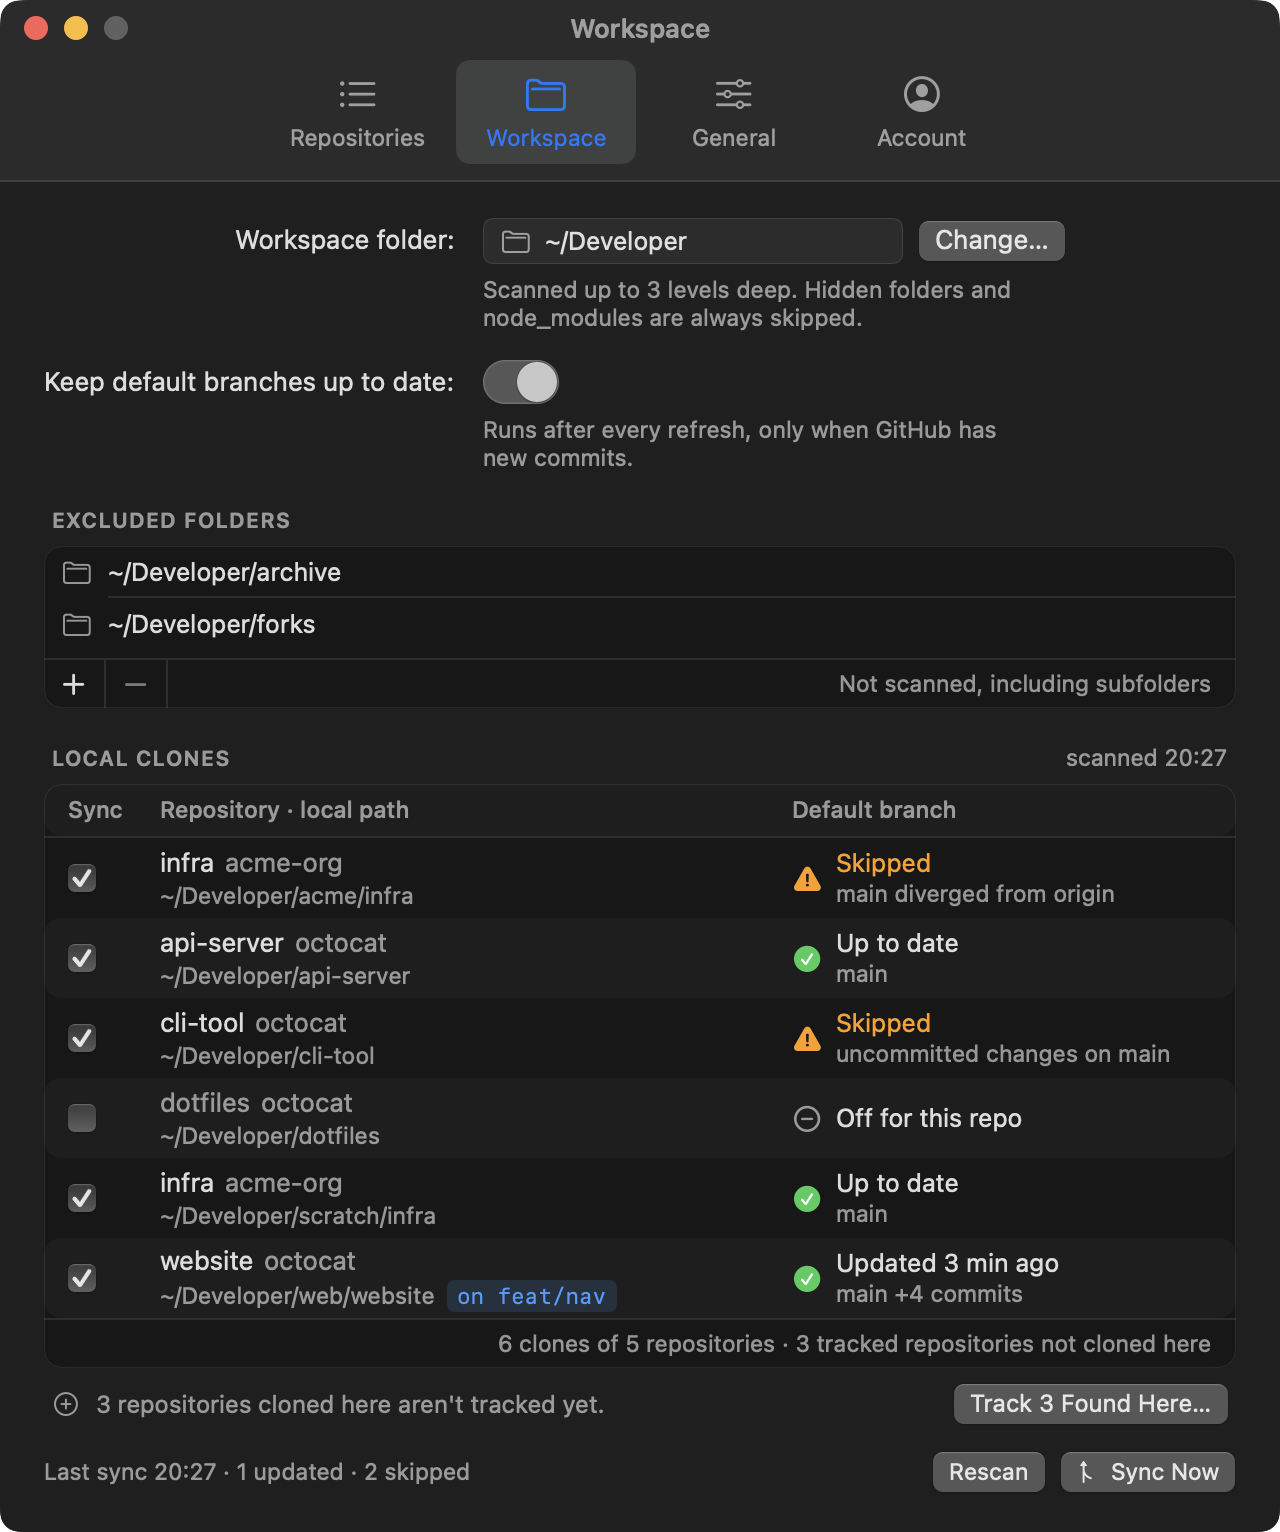
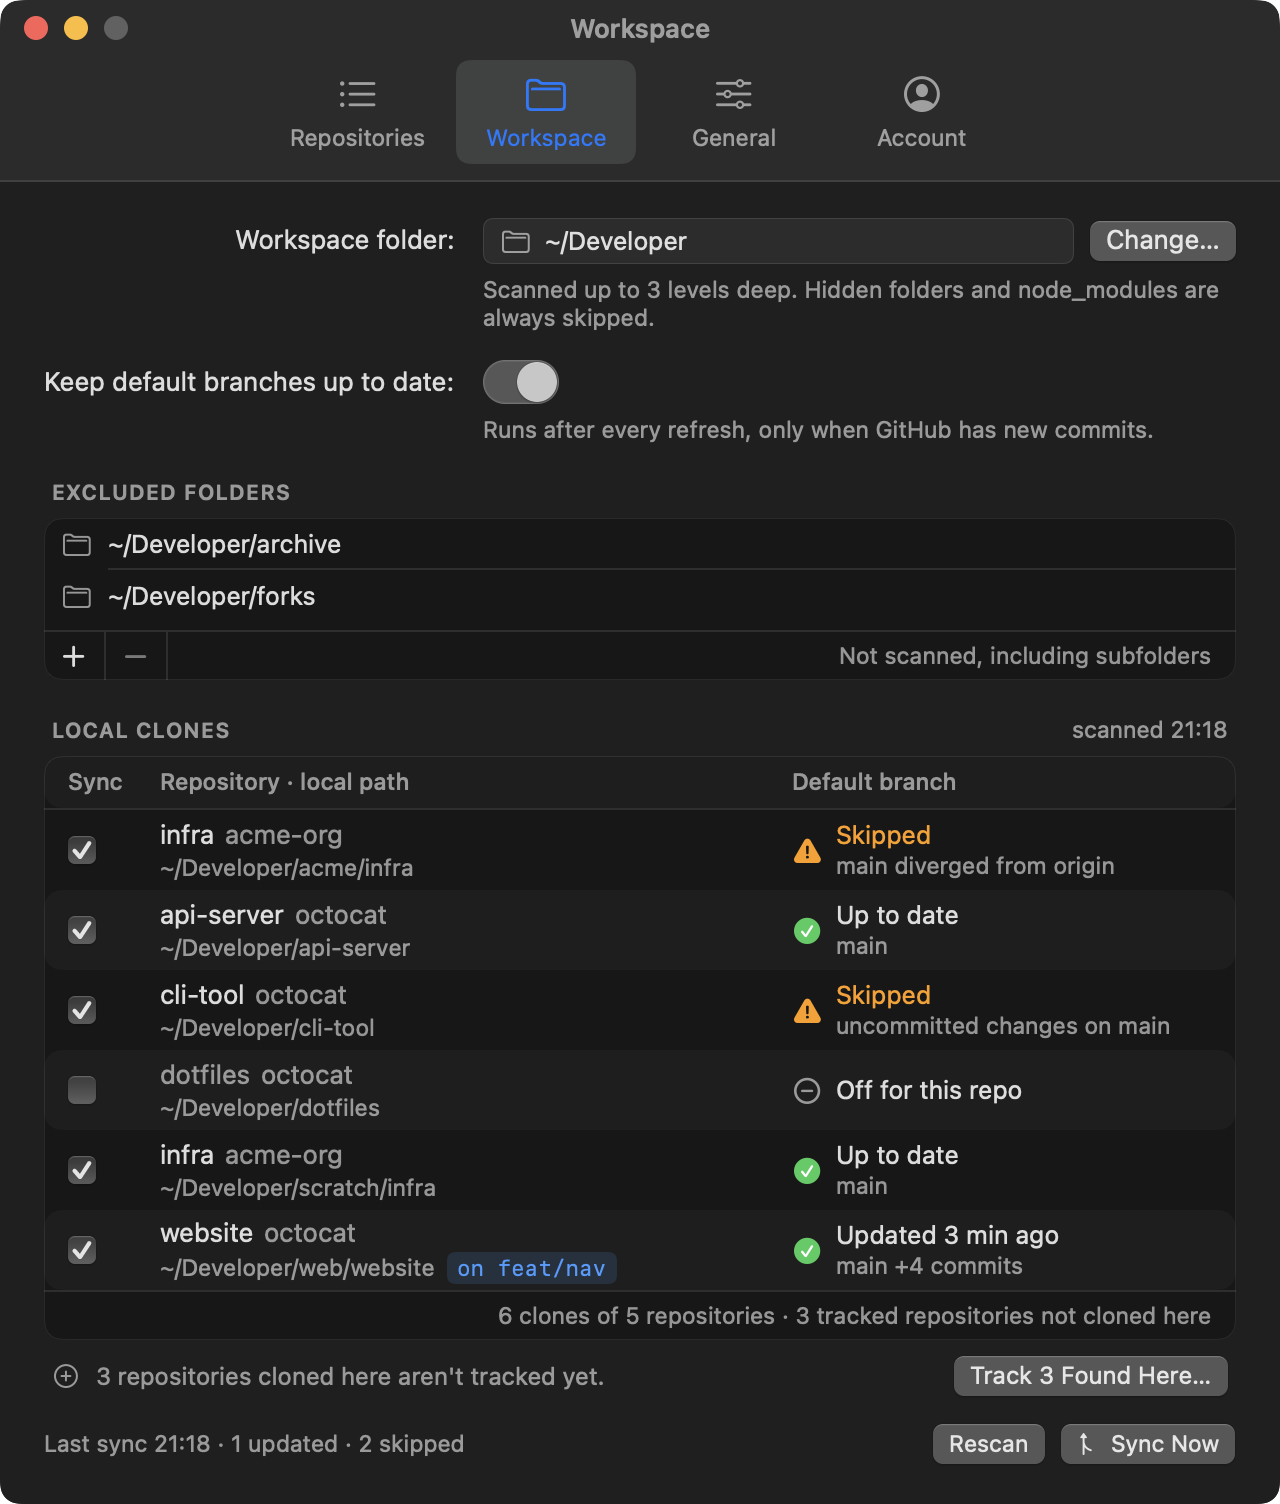
Keep Settings pickers from collapsing and hide the menu bar dot for queued runs
- Settings pop-ups get their width from AppKit (SettingsPicker) instead of
  fixedSize(), which sometimes measured them before they had items and left
  them collapsed to their arrows
- Settings forms use FormRow: the caption shares the control's cell, so rows
  no longer get uneven gaps and captions use the full column width
- The menu bar dot shows only while a workflow runs, not when runs are only
  queued
- Docs and screenshots updated

diff --git a/Sources/ShipwatchUI/SettingsView.swift b/Sources/ShipwatchUI/SettingsView.swift
@@ -1,3 +1,4 @@
+import AppKit
 import ShipwatchCore
 import SwiftUI
 
@@ -88,20 +89,84 @@ extension View {
     }
 }
 
-/// Trailing-aligned label in the first column of a Settings form grid.
-func formLabel(_ text: String) -> some View {
-    Text(text)
-        .gridColumnAlignment(.trailing)
+/// One row of a Settings form `Grid`: a trailing label, then the control with any `FormCaption` under it.
+///
+/// Captions share the control's cell, which fills the second column, so the grid measures each row at the width it
+/// draws it. As separate rows they were measured narrower than drawn and left uneven gaps.
+struct FormRow<Content: View>: View {
+    let label: String
+    var dimmed: Bool
+    let content: Content
+
+    init(_ label: String, dimmed: Bool = false, @ViewBuilder content: () -> Content) {
+        self.label = label
+        self.dimmed = dimmed
+        self.content = content()
+    }
+
+    var body: some View {
+        GridRow {
+            Text(label)
+                .foregroundStyle(dimmed ? .tertiary : .primary)
+                .fixedSize()
+                .gridColumnAlignment(.trailing)
+            VStack(alignment: .leading, spacing: 6) { content }
+                .frame(maxWidth: .infinity, alignment: .leading)
+        }
+    }
 }
 
-/// Small explanatory line under a Settings form row, in the second column.
-func formCaption(_ text: String, color: Color = .secondary) -> some View {
-    GridRow {
-        Color.clear.gridCellUnsizedAxes([.horizontal, .vertical])
+/// Small explanatory text under a control in a `FormRow`.
+struct FormCaption: View {
+    let text: String
+    var color: Color = .secondary
+
+    init(_ text: String, color: Color = .secondary) {
+        self.text = text
+        self.color = color
+    }
+
+    var body: some View {
         Text(text)
             .font(.system(size: 11.5))
             .foregroundStyle(color)
             .fixedSize(horizontal: false, vertical: true)
+    }
+}
+
+/// A Settings pop-up menu as wide as its longest option.
+///
+/// AppKit measures the width up front. With `fixedSize()`, SwiftUI sometimes measured the pop-up before it had any
+/// items and kept it collapsed to its arrows.
+struct SettingsPicker<Value: Hashable>: View {
+    let title: String
+    @Binding var selection: Value
+    let options: [Value]
+    let label: (Value) -> String
+
+    var body: some View {
+        Picker(title, selection: $selection) {
+            ForEach(options, id: \.self) { option in
+                Text(label(option)).tag(option)
+            }
+        }
+        .labelsHidden()
+        .frame(width: PopUpWidth.fitting(options.map(label)))
+    }
+}
+
+@MainActor
+enum PopUpWidth {
+    private static var cache: [[String]: CGFloat] = [:]
+
+    /// The width AppKit gives a regular pop-up button holding `titles`.
+    static func fitting(_ titles: [String]) -> CGFloat {
+        if let width = cache[titles] { return width }
+        let button = NSPopUpButton(frame: .zero, pullsDown: false)
+        button.addItems(withTitles: titles)
+        let width = ceil(button.intrinsicContentSize.width)
+        cache[titles] = width
+        return width
     }
 }
 
@@ -139,74 +204,49 @@ struct GeneralSettingsView: View {
 
     var body: some View {
         @Bindable var prefs = model.prefs
-        Grid(alignment: .leadingFirstTextBaseline, horizontalSpacing: 14, verticalSpacing: 6) {
-            GridRow {
-                formLabel("Refresh every:")
-                Picker("Refresh every", selection: Binding(get: { prefs.refreshMinutes }, set: { model.setRefreshMinutes($0) })) {
-                    ForEach(Preferences.refreshChoices, id: \.self) { minutes in
-                        Text(minutes.counted("minute")).tag(minutes)
-                    }
-                }
-                .labelsHidden()
-                .fixedSize()
+        Grid(alignment: .leadingFirstTextBaseline, horizontalSpacing: 14, verticalSpacing: 14) {
+            FormRow("Refresh every:") {
+                SettingsPicker(
+                    title: "Refresh every",
+                    selection: Binding(get: { prefs.refreshMinutes }, set: { model.setRefreshMinutes($0) }),
+                    options: Preferences.refreshChoices
+                ) { $0.counted("minute") }
+                FormCaption("Refreshes faster (every 20 s) while a workflow is running or queued.")
             }
-            formCaption("Refreshes faster (every 20 s) while a workflow is running or queued.")
 
-            GridRow {
-                formLabel("Last activity means:")
-                Picker("Last activity means", selection: $prefs.activityMode) {
-                    ForEach(ActivityMode.allCases, id: \.self) { mode in
-                        Text(mode.label).tag(mode)
-                    }
-                }
-                .labelsHidden()
-                .fixedSize()
+            FormRow("Last activity means:") {
+                SettingsPicker(title: "Last activity means", selection: $prefs.activityMode, options: ActivityMode.allCases, label: \.label)
+                FormCaption("Last push, or any update (issues, PRs, comments).")
             }
-            .padding(.top, 8)
-            formCaption("Last push, or any update (issues, PRs, comments).")
 
-            GridRow {
-                formLabel("Include pre-releases:")
+            FormRow("Include pre-releases:") {
                 Toggle("Include pre-releases", isOn: Binding(get: { prefs.includePrereleases }, set: { model.setIncludePrereleases($0) }))
                     .labelsHidden()
                     .toggleStyle(.switch)
             }
-            .padding(.top, 8)
 
-            GridRow {
-                formLabel("Show security alerts:")
+            FormRow("Show security alerts:") {
                 Toggle("Show security alerts", isOn: Binding(get: { prefs.showSecurityAlerts }, set: { model.setShowSecurityAlerts($0) }))
                     .labelsHidden()
                     .toggleStyle(.switch)
+                FormCaption("Open Dependabot, code scanning and secret scanning alerts. Needs write access, admin for secret scanning.")
             }
-            .padding(.top, 4)
-            formCaption("Open Dependabot, code scanning and secret scanning alerts. Needs write access, admin for secret scanning.")
 
-            GridRow {
-                formLabel("Show count in menu bar:")
-                Picker("Show count in menu bar", selection: $prefs.menuBarCount) {
-                    ForEach(MenuBarCount.allCases, id: \.self) { count in
-                        Text(count.label).tag(count)
-                    }
-                }
-                .labelsHidden()
-                .fixedSize()
+            FormRow("Show count in menu bar:") {
+                SettingsPicker(title: "Show count in menu bar", selection: $prefs.menuBarCount, options: MenuBarCount.allCases, label: \.label)
+                FormCaption("Number of running or failing repositories next to the sailboat.")
             }
-            .padding(.top, 4)
-            formCaption("Number of running or failing repositories next to the sailboat.")
 
-            GridRow {
-                formLabel("Launch at login:")
+            FormRow("Launch at login:") {
                 Toggle("Launch at login", isOn: Binding(get: { model.launchAtLogin }, set: { model.setLaunchAtLogin($0) }))
                     .labelsHidden()
                     .toggleStyle(.switch)
                     .disabled(!model.loginItemAvailable)
-            }
-            .padding(.top, 8)
-            if !model.loginItemAvailable {
-                formCaption("Available when Shipwatch runs from its app bundle.")
-            } else if let error = model.launchAtLoginError {
-                formCaption(error, color: Theme.failing)
+                if !model.loginItemAvailable {
+                    FormCaption("Available when Shipwatch runs from its app bundle.")
+                } else if let error = model.launchAtLoginError {
+                    FormCaption(error, color: Theme.failing)
+                }
             }
             updateRows
         }
@@ -219,21 +259,17 @@ struct GeneralSettingsView: View {
     private var updateRows: some View {
         let updater = model.updater
         @Bindable var prefs = model.prefs
-        Divider().padding(.vertical, 10)
+        Divider()
+            .gridCellUnsizedAxes(.horizontal)
+            .padding(.vertical, 4)
 
-        GridRow {
-            formLabel("Version:")
+        FormRow("Version:") {
             Text(updater.isSupported ? updater.currentVersion.description : "Development build")
                 .foregroundStyle(.secondary)
         }
-        GridRow {
-            formLabel("Updates:")
+        FormRow("Updates:") {
             UpdateStatusLine(updater: updater)
-        }
-        .padding(.top, 4)
-        if updater.isSupported {
-            GridRow {
-                Color.clear.gridCellUnsizedAxes([.horizontal, .vertical])
+            if updater.isSupported {
                 HStack(spacing: 8) {
                     Button("Check Now") { updater.checkNow() }
                         .disabled(updater.isBusy)
@@ -248,40 +284,35 @@ struct GeneralSettingsView: View {
                             .accessibilityLabel("Release notes for \(release.tag)")
                     }
                 }
+                .padding(.top, 2)
             }
-            .padding(.top, 2)
         }
 
-        GridRow {
-            formLabel("Check automatically:")
+        FormRow("Check automatically:") {
             HStack(spacing: 10) {
                 Toggle("Check for updates automatically", isOn: Binding(get: { prefs.checkForUpdates }, set: { updater.setCheckForUpdates($0) }))
                     .labelsHidden()
                     .toggleStyle(.switch)
-                Picker("Check for updates", selection: Binding(get: { prefs.updateCheckHours }, set: { updater.setUpdateCheckHours($0) })) {
-                    ForEach(Preferences.updateCheckChoices, id: \.self) { hours in
-                        Text(Self.checkInterval(hours)).tag(hours)
-                    }
-                }
-                .labelsHidden()
-                .fixedSize()
+                SettingsPicker(
+                    title: "Check for updates",
+                    selection: Binding(get: { prefs.updateCheckHours }, set: { updater.setUpdateCheckHours($0) }),
+                    options: Preferences.updateCheckChoices,
+                    label: Self.checkInterval
+                )
                 .disabled(!prefs.checkForUpdates)
             }
             .disabled(!updater.isSupported)
         }
-        .padding(.top, 8)
 
-        GridRow {
-            formLabel("Install automatically:")
+        FormRow("Install automatically:") {
             Toggle("Install updates automatically", isOn: $prefs.installUpdatesAutomatically)
                 .labelsHidden()
                 .toggleStyle(.switch)
                 .disabled(!updater.isSupported)
-        }
-        .padding(.top, 4)
-        formCaption("Updates are signed by the Shipwatch release key and checked before installing. Shipwatch restarts to finish.")
-        if let message = updater.pause.message(offering: updater.availableRelease?.version), !updater.hasFailed {
-            formCaption(message, color: Theme.failing)
+            FormCaption("Updates are signed by the Shipwatch release key and checked before installing. Shipwatch restarts to finish.")
+            if let message = updater.pause.message(offering: updater.availableRelease?.version), !updater.hasFailed {
+                FormCaption(message, color: Theme.failing)
+            }
         }
     }
 

diff --git a/Sources/ShipwatchUI/WorkspaceSettingsView.swift b/Sources/ShipwatchUI/WorkspaceSettingsView.swift
@@ -52,9 +52,8 @@ struct WorkspaceSettingsView: View {
     // MARK: Form
 
     private var form: some View {
-        Grid(alignment: .leadingFirstTextBaseline, horizontalSpacing: 14, verticalSpacing: 6) {
-            GridRow {
-                formLabel("Workspace folder:")
+        Grid(alignment: .leadingFirstTextBaseline, horizontalSpacing: 14, verticalSpacing: 14) {
+            FormRow("Workspace folder:") {
                 HStack(spacing: 8) {
                     folderField
                     if workspace.root == nil {
@@ -63,16 +62,14 @@ struct WorkspaceSettingsView: View {
                         Button("Change…", action: chooseWorkspace).fixedSize()
                     }
                 }
+                FormCaption(
+                    workspace.root == nil
+                        ? "The folder where you keep your clones, for example ~/Developer."
+                        : "Scanned up to \(WorkspaceScanner.maxDepth) levels deep. Hidden folders and node_modules are always skipped."
+                )
             }
-            formCaption(
-                workspace.root == nil
-                    ? "The folder where you keep your clones, for example ~/Developer."
-                    : "Scanned up to \(WorkspaceScanner.maxDepth) levels deep. Hidden folders and node_modules are always skipped."
-            )
 
-            GridRow {
-                formLabel("Keep default branches up to date:")
-                    .foregroundStyle(switchEnabled ? .primary : .tertiary)
+            FormRow("Keep default branches up to date:", dimmed: !switchEnabled) {
                 Toggle(
                     "Keep default branches up to date",
                     isOn: Binding(get: { prefs.syncClones && switchEnabled }, set: { model.setSyncClones($0) })
@@ -80,14 +77,13 @@ struct WorkspaceSettingsView: View {
                 .labelsHidden()
                 .toggleStyle(.switch)
                 .disabled(!switchEnabled)
-            }
-            .padding(.top, 8)
-            if !workspace.gitAvailable {
-                formCaption("Needs git. Install the Command Line Tools with xcode-select --install, then restart Shipwatch.", color: Theme.warning)
-            } else if workspace.root == nil {
-                formCaption("Choose a workspace folder first.")
-            } else {
-                formCaption("Runs after every refresh, only when GitHub has new commits.")
+                if !workspace.gitAvailable {
+                    FormCaption("Needs git. Install the Command Line Tools with xcode-select --install, then restart Shipwatch.", color: Theme.warning)
+                } else if workspace.root == nil {
+                    FormCaption("Choose a workspace folder first.")
+                } else {
+                    FormCaption("Runs after every refresh, only when GitHub has new commits.")
+                }
             }
         }
     }

diff --git a/Sources/ShipwatchUI/StatusItemController.swift b/Sources/ShipwatchUI/StatusItemController.swift
@@ -66,8 +66,8 @@ final class StatusItemController: NSObject, NSPopoverDelegate {
         let offline: Bool = if case .offline = model.banner { true } else { false }
         button.appearsDisabled = signedOut || offline
 
-        // Only a running or queued workflow gets the dot; failures show in the list and the optional count.
-        dot.isHidden = overall.running + overall.queued == 0 || signedOut
+        // Only a running workflow gets the dot; queued, failing and config/billing repos show in the list and tooltip.
+        dot.isHidden = overall.running == 0 || signedOut
         dot.layer?.backgroundColor = Theme.runningNS.cgColor
         dot.layer?.borderColor = NSColor.windowBackgroundColor.withAlphaComponent(0.9).cgColor
 

diff --git a/docs/architecture.md b/docs/architecture.md
@@ -21,11 +21,15 @@ plus a status dot, and an `NSPopover` hosting `PopoverView`. The app runs as an
 accessory (`LSUIElement`), so there is no Dock icon. Settings is a regular
 window (`SettingsWindowController`) forced to dark appearance. The sort button
 opens an AppKit `NSMenu`: a SwiftUI `Menu` inside the popover stops responding
-after its first pick until the popover reopens.
+after its first pick until the popover reopens. Settings pop-ups use
+`SettingsPicker`, which takes its width from AppKit: with `fixedSize()` a
+picker sometimes collapsed to its arrows. Settings forms are a `Grid` of
+`FormRow`s, each caption inside its control's cell.
 
-The dot is yellow while any visible repo has a running or queued workflow, and
-hidden otherwise; failing and config/billing repos show only in the list. The number of running repos (default) or failing repos is
-shown next to the icon, or none (Settings > General).
+The dot is yellow while any visible repo has a running workflow, and hidden
+otherwise; queued, failing and config/billing repos show only in the list and
+the tooltip. The number of running repos (default) or failing repos is shown
+next to the icon, or none (Settings > General).
 
 ## Data flow
 

diff --git a/docs/usage.md b/docs/usage.md
@@ -6,8 +6,8 @@ Shipwatch shows a sailboat in the menu bar.
 
 | Icon | Meaning |
 | --- | --- |
-| Sailboat only | Nothing is running or queued; repositories may be passing, failing or config/billing |
-| Yellow dot | A workflow is running or queued in a visible repository |
+| Sailboat only | Nothing is running; repositories may be passing, queued, failing or config/billing |
+| Yellow dot | A workflow is running in a visible repository |
 
 By default the number of repositories with a running workflow shows next to the
 sailboat; repositories that only have queued workflows don't count. **Show count in menu bar** switches it to failing repositories or
@@ -49,7 +49,7 @@ apart without the Checks permission, so open the run to see GitHub's message.
 
 **Queued** (dotted yellow circle) means a run is waiting to start, for a runner,
 an approval or a concurrency slot, and none is in progress. Queued repositories
-are not counted as running.
+are not counted as running and don't show the menu bar dot.
 
 The chips under the title count running, queued, failing, config/billing and passing
 repositories, repositories with at least one open Dependabot pull request, and,

diff --git a/README.md b/README.md
@@ -137,8 +137,8 @@ Every setting and its default is in [Usage](docs/usage.md). For problems, see
 - Open issue count, linking to the issue list.
 - Open pull request count with Dependabot pull requests split out, each linking
   to its list.
-- A sailboat menu bar icon with a yellow dot while workflows run or wait in the
-  queue, plus the number of running (or failing) repositories.
+- A sailboat menu bar icon with a yellow dot while workflows run, plus the
+  number of running (or failing) repositories.
 - Sign-in through a read-only GitHub App device flow, or your existing `gh` login.
 - Optional: keep `main` of your local clones current. Pick a workspace folder,
   exclude folders, and Shipwatch fast-forwards each clone's default branch when
